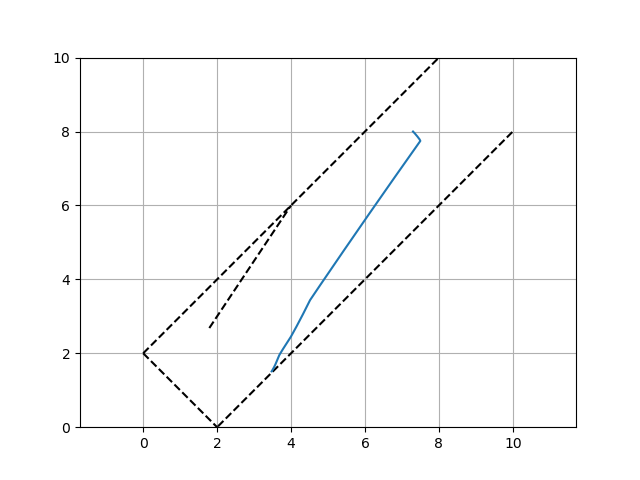
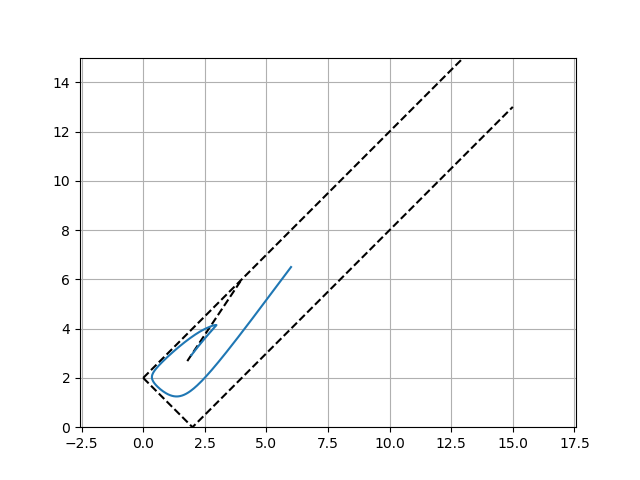
solved the semipermeable surfaces when |D1I|=r

diff --git a/vecgram.py b/vecgram.py
@@ -1,7 +1,7 @@
 import matplotlib.pyplot as plt
 import numpy as np
-from math import pi, sqrt, acos, cos, sin, tan
-from scipy.optimize import minimize, brute
+from math import pi, sqrt, acos, cos, sin, tan, atan2
+from scipy.optimize import minimize, dual_annealing
 
 from Config import Config
 
@@ -55,38 +55,38 @@ def get_phi(r1, r2):
 
         return v1, v2, dv1, dv2
 
-    def err_u(phi, r1=r1, r2=r2):
+    # def err_u(phi, r1=r1, r2=r2):
+    #     v1, v2, dv1, dv2 = get_v(phi, r1, r2)
+    #     return (v1 - dv1) ** 2 + (v2 - dv2) ** 2
+
+    # def err_l(phi, r1=r1, r2=r2):
+    #     v1, v2, dv1, dv2 = get_v(phi, r1, r2)
+    #     return (v1 + dv1) ** 2 + (v2 + dv2) ** 2
+
+    # def err(phi, r1=r1, r2=r2, beta=5.):
+    #     v1, v2, dv1, dv2 = get_v(phi, r1, r2)
+    #     return min(err_u(phi, r1=r1, r2=r2), err_l(phi, r1=r1, r2=r2))
+
+    def slope_p(phi, r1=r1, r2=r2):
         v1, v2, dv1, dv2 = get_v(phi, r1, r2)
-        return (v1 - dv1) ** 2 + (v2 - dv2) ** 2
+        return atan2(v2, v1)
 
-    def err_l(phi, r1=r1, r2=r2):
+    def slope_n(phi, r1=r1, r2=r2):
         v1, v2, dv1, dv2 = get_v(phi, r1, r2)
-        return (v1 + dv1) ** 2 + (v2 + dv2) ** 2
+        return -atan2(v2, v1)
 
-    def err(phi, r1=r1, r2=r2, beta=5.):
-        v1, v2, dv1, dv2 = get_v(phi, r1, r2)
-        return min(err_u(phi, r1=r1, r2=r2), err_l(phi, r1=r1, r2=r2))
+    phi_max_slope = minimize(slope_n, 0).x
+    phi_min_slope = minimize(slope_p, 0).x
+    ang_p = slope_p(phi_max_slope)
+    ang_n = slope_p(phi_min_slope)
+    if ang_p - ang_n > pi:
+        return 0
+    else:
+        if max(phi_max_slope, phi_min_slope) < 0:
+            return max(phi_max_slope, phi_min_slope)
+        else:
+            return min(phi_max_slope, phi_min_slope)
 
-    # for p in np.linspace(-pi, pi, 500):
-    #     print(p, err(p))
-
-    sol = optimize.minimize(err, 0.1, options={'disp': True})
-    # sol_u = minimize(err_u, 0)
-    # err_u = err_u(sol_u.x)
-    # if sol_u.x > 0 or err_u > 1e-4:
-    # 	sol_l = minimize(err_l, 0)
-    # 	err_l = err_l(sol_l.x)
-    # 	sol = sol_l
-    # else:
-    # 	sol = sol_u
-    # sol_l = minimize(err_l, 0)
-    # err_l = err_l(sol_l.x)
-    # if sol_l.x > 0 or err_l > 1e-4:
-    # 	sol_u = minimize(err_u, 0)
-    # 	err_u = err_u(sol_u.x)
-    # 	sol = sol_u
-    # else:
-    # 	sol = sol_l
     return sol.x
 
 
@@ -116,3 +116,32 @@ def draw_vecgram(fig, ax, r1, r2):
     ax.grid()
 # ax.axis('equal')
 # plt.show(block=False)
+
+def semipermeable_r(r1, r2):
+
+    def get_v(phi, r1, r2):
+            psi = acos(vd / vi * cos(phi))
+            psi = -abs(psi)
+            alpha = acos((r ** 2 + r1 ** 2 - r2 ** 2) / (2 * r1 * r))
+            beta = pi - acos((r ** 2 + r2 ** 2 - r1 ** 2) / (2 * r2 * r))
+
+            v1 = -vd * cos(alpha + phi)
+            v2 = -vi * cos(beta + psi)
+
+            return v1, v2
+    
+    def slope_p(phi, r1=r1, r2=r2):
+        v1, v2 = get_v(phi, r1, r2)
+        return atan2(v2, v1)
+
+    def slope_n(phi, r1=r1, r2=r2):
+        v1, v2 = get_v(phi, r1, r2)
+        return -atan2(v2, v1)
+
+    ang_p = slope_p(minimize(slope_n, 0).x)
+    ang_n = slope_p(minimize(slope_p, 0).x)
+    # print(ang_p)
+    # print(ang_n)
+    # print(ang_p - ang_n)
+
+    return pi - (ang_p - ang_n)

diff --git a/overall_plot.py b/overall_plot.py
@@ -1,8 +1,10 @@
 import matplotlib.pyplot as plt
+import matplotlib.tri as tri
 import os
 import csv
 import numpy as np
 from math import cos, sin, acos
+from vecgram import semipermeable_r
 
 from Config import Config
 r = Config.CAP_RANGE
@@ -67,7 +69,7 @@ def triag_cnstr_3(r1):
 	return r - r1
 
 def plot_bds(ax, func, n=5):
-	r1s = np.linspace(0, 10., n)
+	r1s = np.linspace(0, 15., n)
 	r2s = np.zeros(n)
 	for i, r1 in enumerate(r1s):
 		r2s[i] = (func(r1))
@@ -77,18 +79,49 @@ def plot_orbit(ax):
 	ax.plot([rDcap_min, rDcap_max], [rIcap_min, rIcap_max], 'k--')
 
 if __name__ == '__main__':
-	ss, xs, phis, rs = read_data()
-	fig, ax = plt.subplots()
-	plot_bds(ax, triag_cnstr_3)
-	plot_bds(ax, triag_cnstr_2)
-	plot_bds(ax, triag_cnstr_1)
-	plot_orbit(ax)
+    ss, xs, phis, rs = read_data()
+    fig, ax = plt.subplots()
+    plot_bds(ax, triag_cnstr_3)
+    plot_bds(ax, triag_cnstr_2)
+    plot_bds(ax, triag_cnstr_1)
+    plot_orbit(ax)
 	# plot_bds(ax, stable_orbit)
-	for s in ss:
-		ax.plot(s[:,0], s[:,2])
+    for s in ss:
+    	ax.plot(s[:,0], s[:,2])
+	# s = ss[20]
+	# print(len(s))
+	# ax.plot(s[1:200,0], s[1:200,2], '-o')
+	# ax.plot(s[0,0], s[0,2], 'ro')
+	# ax.plot(s[-1,0], s[-1,2], 'go')
 		# ax.plot(x[:,2], x[:,3])
-	ax.grid()
-	ax.axis('equal')
-	ax.set_xlim([0, 10])
-	ax.set_ylim([0, 10])
-	plt.show()
+
+    # r1set = np.linspace(1., 10., 32)
+    # r1s, r2s, cs = [], [], []
+    # for r1 in r1set:
+    # 	for r2 in np.linspace(r1-r, r1+0.7*r, 25):
+    # 		if abs((r1**2 + r2**2 - r**2)/(2*r1*r2))<1 and r2 >0:
+    # 			c = semipermeable_r(r1, r2)
+    # 			r1s.append(r1)
+    # 			r2s.append(r2)
+    # 			cs.append(c)
+    # 	for r2 in np.linspace(r1+.71*r, r1+r, 9):
+    # 		if abs((r1**2 + r2**2 - r**2)/(2*r1*r2))<1 and r2>0:
+    # 			c = semipermeable_r(r1, r2)
+    # 			r1s.append(r1)
+    # 			r2s.append(r2)
+    # 			cs.append(c)
+
+    # xi, yi = np.linspace(3., 7., 12), np.linspace(3., 7., 12)
+    # triang = tri.Triangulation(r1s, r2s)
+    # interpolator = tri.LinearTriInterpolator(triang, cs)
+    # Xi, Yi = np.meshgrid(xi, yi)
+    # zi = interpolator(Xi, Yi)
+
+    # # fig, ax = plt.subplots()
+    # ax.contour(xi, yi, zi, [.1], linewidths=2, colors='k')
+
+    ax.grid()
+    ax.axis('equal')
+    ax.set_xlim([0, 15])
+    ax.set_ylim([0, 15])
+    plt.show()

diff --git a/test.py b/test.py
@@ -1,7 +1,49 @@
 import matplotlib.pyplot as plt
-from vecgram import *\
+import matplotlib.tri as tri
+from vecgram import *
+from overall_plot import triag_cnstr_3, triag_cnstr_2, triag_cnstr_1, plot_bds, plot_orbit
 
 if __name__ == '__main__':
+    # fig, ax = plt.subplots()
+    # draw_vecgram(fig, ax, 1.5, 2.56)
+    # plt.show()
+
+
+    r1set = np.linspace(3., 10., 32)
+    r1s, r2s, cs = [], [], []
+    for r1 in r1set:
+    	for r2 in np.linspace(r1-r, r1+0.7*r, 25):
+    		if abs((r1**2 + r2**2 - r**2)/(2*r1*r2))<1:
+    			c = semipermeable_r(r1, r2)
+    			r1s.append(r1)
+    			r2s.append(r2)
+    			cs.append(c)
+    	for r2 in np.linspace(r1+.71*r, r1+r, 9):
+    		if abs((r1**2 + r2**2 - r**2)/(2*r1*r2))<1:
+    			c = semipermeable_r(r1, r2)
+    			r1s.append(r1)
+    			r2s.append(r2)
+    			cs.append(c)
+
+    xi, yi = np.linspace(3., 7., 12), np.linspace(3., 7., 12)
+    triang = tri.Triangulation(r1s, r2s)
+    interpolator = tri.LinearTriInterpolator(triang, cs)
+    Xi, Yi = np.meshgrid(xi, yi)
+    zi = interpolator(Xi, Yi)
+
     fig, ax = plt.subplots()
-    draw_vecgram(fig, ax, 3.5, 2.2)
+    ax.contour(xi, yi, zi, [.1], linewidths=2, colors='k')
+
+    # cntr = ax.contourf(xi, yi, zi, levels=3, cmap="RdBu_r")
+    # fig.colorbar(cntr, ax=ax)
+
+    plot_bds(ax, triag_cnstr_3)
+    plot_bds(ax, triag_cnstr_2)
+    plot_bds(ax, triag_cnstr_1)
+
+    ax.grid()
+    ax.axis('equal')
+    ax.set_xlim([0, 15])
+    ax.set_ylim([0, 15])
     plt.show()
+    # ax.plot(r1s, r2s, 'ko', ms=3)

diff --git a/traj_generator.py b/traj_generator.py
@@ -9,9 +9,25 @@ from envelope import *
 # 		if abs((r1**2 + r2**2 - r**2)/(2*r1*r2))<1:
 # 			print('new plot')
 # 			traj, ss, phis, rrs = envelope_barrier(r1, r2)
-r1s = np.linspace(2., 10., 7)
+# r1s = np.linspace(2., 4., 3)
+# for r1 in r1s:
+# 	k = (r1 - rDcap_min)/(rDcap_max - rDcap_min)
+# 	r2 = 0.9999*k*(rIcap_max - rIcap_min) + rIcap_min
+# 	if abs((r1**2 + r2**2 - r**2)/(2*r1*r2))<1:
+# 		print('new plot')
+# 		traj, ss, phis, rrs = envelope_barrier(r1, r2)
+r1s = np.linspace(6., 8., 3)
 for r1 in r1s:
-	for r2 in np.linspace(r1-r, r1+r, 7):
+	for r2 in np.linspace(r1-r, r1+0.7*r, 7):
 		if abs((r1**2 + r2**2 - r**2)/(2*r1*r2))<1:
 			print('new plot')
 			traj, ss, phis, rrs = envelope_barrier(r1, r2)
+	for r2 in np.linspace(r1+.71*r, r1+r, 3):
+		if abs((r1**2 + r2**2 - r**2)/(2*r1*r2))<1:
+			print('new plot')
+			traj, ss, phis, rrs = envelope_barrier(r1, r2)
+# r1 = 6
+# for r2 in np.linspace(r1-r, r1+r, 20):
+# 	if abs((r1**2 + r2**2 - r**2)/(2*r1*r2))<1:
+# 			print('new plot')
+# 			traj, ss, phis, rrs = envelope_barrier(r1, r2)

diff --git a/envelope.py b/envelope.py
@@ -10,7 +10,7 @@ def envelope_dx(s):
 	# print('dr: [%.5f, %.5f]'%(s[0], s[2]), 'dv: [%.5f, %.5f]'%(vr1, vr2), 'phi: [%.5f]'%(phi))
 	return np.array([vr1, vtht1, vr2, vtht2])
 
-def envelope_barrier(r1, r2, tht1=0, dt=0.03):
+def envelope_barrier(r1, r2, tht1=0, dt=0.05):
 	fname = 'res/r1_%.3f-r2_%.3f'%(r1, r2)+'/data.csv'
 	if not os.path.isdir('res/r1_%.3f-r2_%.3f'%(r1, r2)+'/'):
 		os.makedirs('res/r1_%.3f-r2_%.3f'%(r1, r2)+'/')
@@ -18,10 +18,11 @@ def envelope_barrier(r1, r2, tht1=0, dt=0.03):
 	dtht = acos((r1**2 + r2**2 - r**2)/(2*r1*r2))
 	ss = [np.array([r1, tht1, r2, tht1-dtht])]
 	t = 0
-	while t < 5:
+	while t < 30:
 		if abs(ss[-1][0] - ss[-1][2]) >= r - dt*vi or ss[-1][0] + ss[-1][2] <= r + dt*vi:
 			print('can\'t cap')
 			break
+		# print(t)
 		s_ = rk4(envelope_dx, ss[-1], dt)
 		ss.append(s_)
 		t += dt

diff --git a/one_plot.py b/one_plot.py
@@ -2,7 +2,7 @@ from envelope import *
 from overall_plot import triag_cnstr_3, triag_cnstr_2, triag_cnstr_1, plot_bds, plot_orbit
 
 if __name__ == '__main__':
-	r1, r2 = 7.3, 8.
+	r1, r2 = 6., 6.5
 	# fig, ax = plt.subplots()
 	# plt.show(block=False)
 	# draw_vecgram(fig, ax, r1, r2)
@@ -34,8 +34,8 @@ if __name__ == '__main__':
 		# ax.plot(x[:,2], x[:,3])
 	ax.grid()
 	ax.axis('equal')
-	ax.set_xlim([0, 10])
-	ax.set_ylim([0, 10])
+	ax.set_xlim([0, 15.])
+	ax.set_ylim([0, 15.])
 	plt.savefig('state.png')
 	plt.show()
 
